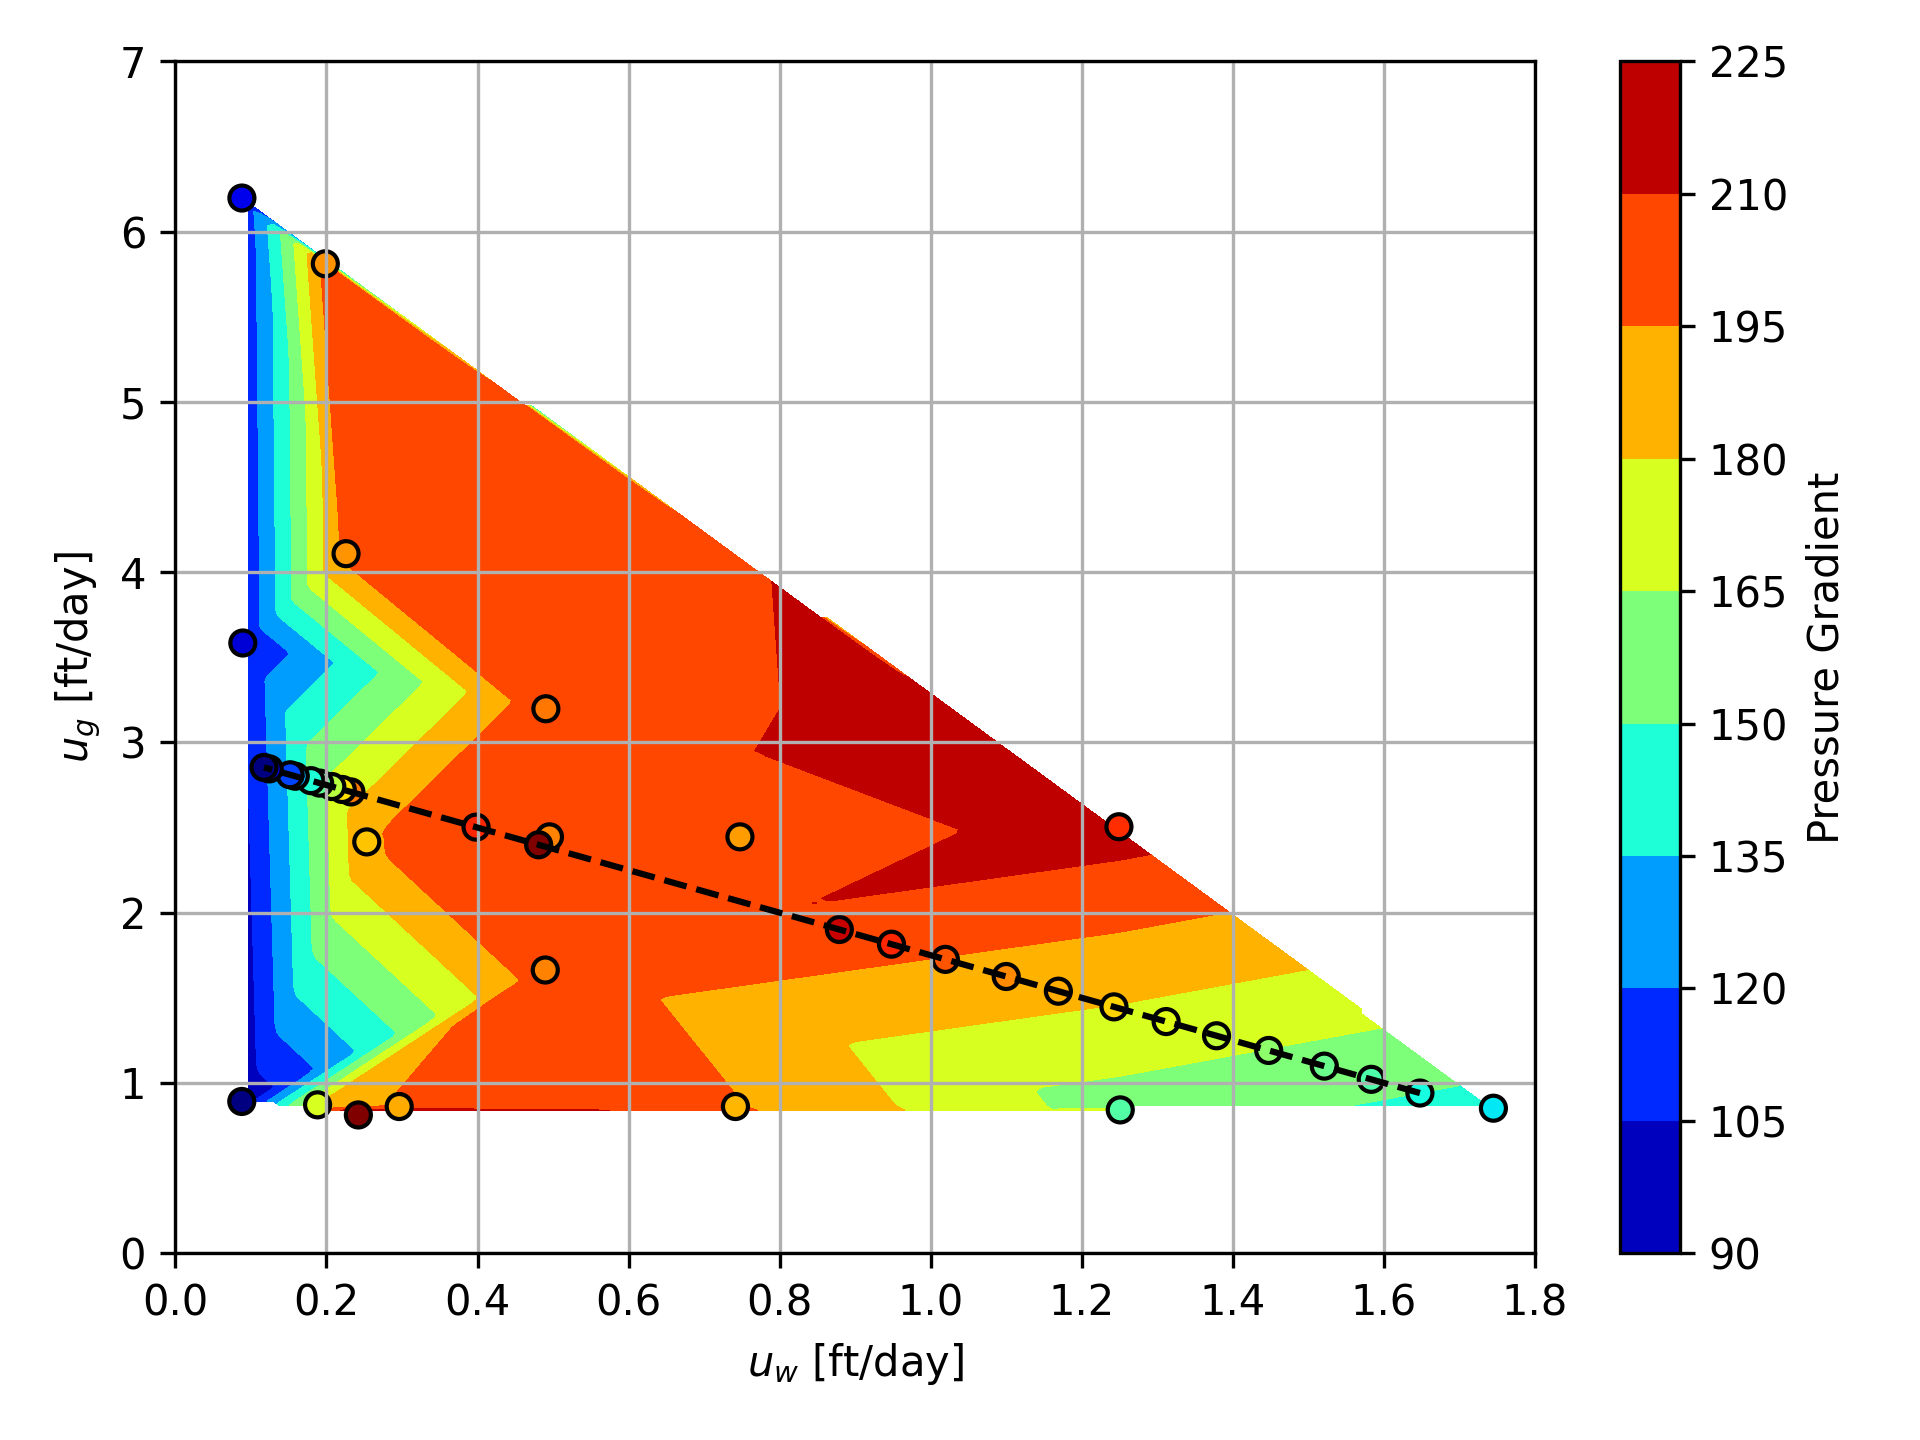
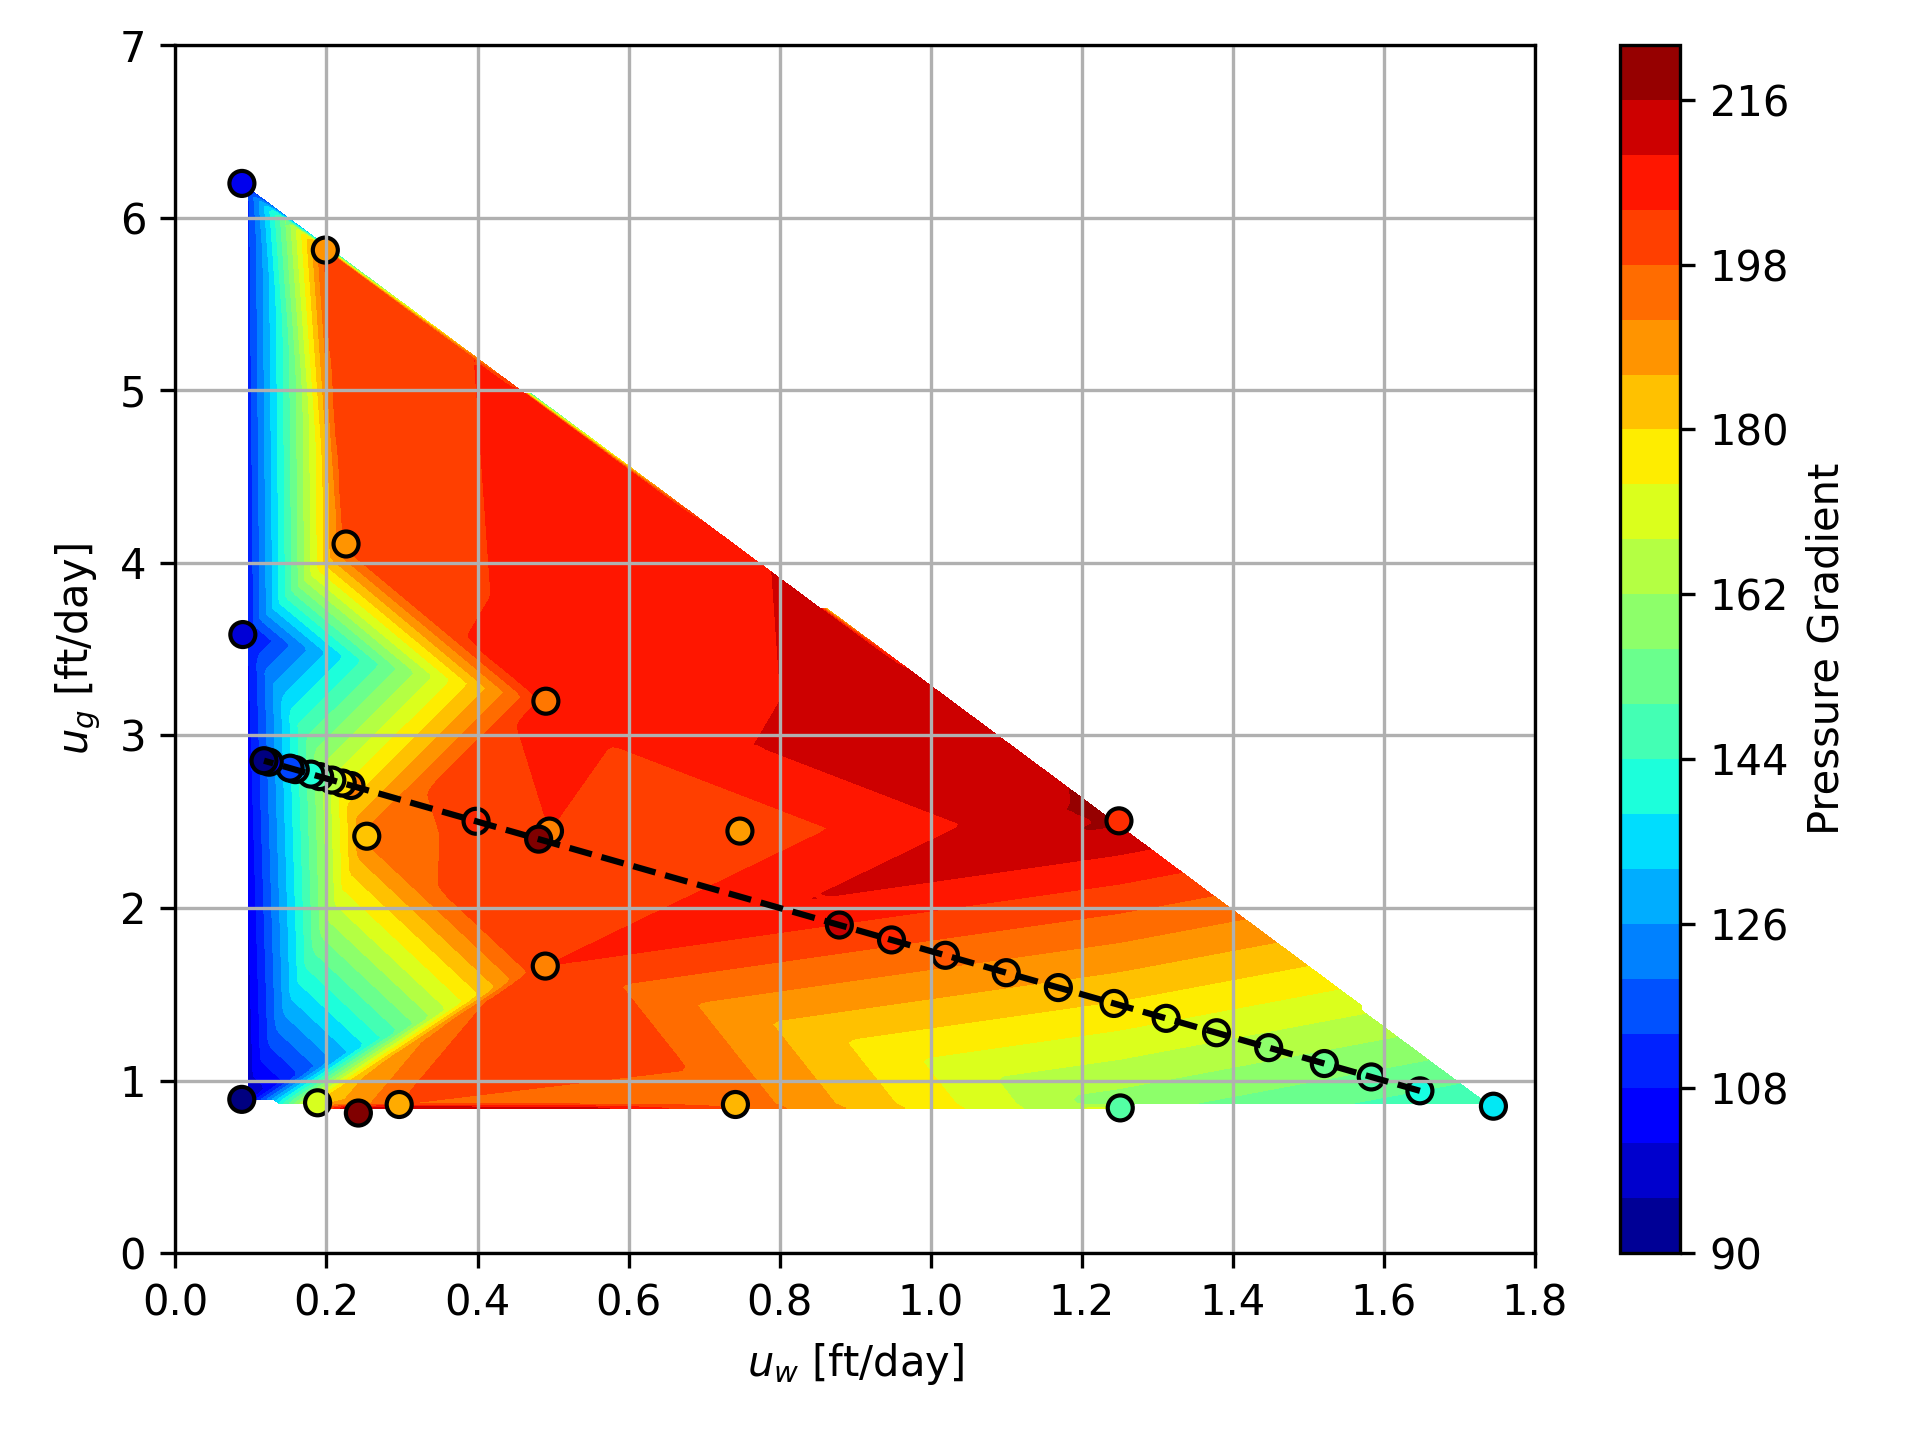
Enhancing the exploratory analysis

diff --git a/exploratory.py b/exploratory.py
@@ -3,6 +3,7 @@ import matplotlib.pyplot as plt
 import json
 from scipy.interpolate import griddata
 from scipy.optimize import minimize_scalar
+from scipy.interpolate import RegularGridInterpolator
 
 class RelativePermeability:
 
@@ -159,14 +160,13 @@ if __name__ == '__main__':
     plt.savefig('uwug_gradP.png', dpi=300)
     plt.close()
 
-
     ## GRIDDATA
     uw_grid = np.linspace(min(uwug[:,0]), max(uwug[:,0]), 200)
     ug_grid = np.linspace(min(uwug[:,1]), max(uwug[:,1]), 200)
     uw_mesh, ug_mesh = np.meshgrid(uw_grid, ug_grid)
     grid_points = np.column_stack((uwug[:,0], uwug[:,1]))
     grad_P_grid = griddata(grid_points, uwug[:,2], (uw_mesh, ug_mesh), method='linear')
-    contourf = plt.contourf(uw_mesh, ug_mesh, grad_P_grid, levels=10, cmap='jet')
+    contourf = plt.contourf(uw_mesh, ug_mesh, grad_P_grid, levels=20, cmap='jet')
     plt.scatter(uwug[:,0], uwug[:,1], c=uwug[:,2], cmap='jet', edgecolor='k')
     scatter = plt.scatter(uw*283465, ug*283465, c=np.abs(gradP)*4.419e-5, cmap='jet', edgecolor='k')
     plt.plot([uw[0]*283465, uw[-1]*283465], [ug[0]*283465, ug[-1]*283465], 'k--')
@@ -182,6 +182,106 @@ if __name__ == '__main__':
     plt.savefig('uwug_gradP_griddata.png', dpi=300)
     plt.close()
 
+
+
+    ## DESIRED UT
+    def interpolate_gradP(ut_des, uw_des):
+        ug_des = ut_des - (5/4) * uw_des
+        uo_des = (1/4) * uw_des
+        interp_func = RegularGridInterpolator((ug_grid, uw_grid), grad_P_grid)
+        points = np.column_stack((ug_des, uw_des))
+        grad_P_des = interp_func(points)
+        return ug_des, grad_P_des, uo_des
+    
+    ut_des = 3.0 # [ft/day]
+    uw_des = np.linspace(0.1,1.7,20)
+
+    # ut_des = 2.3 # [ft/day]
+    # uw_des = np.linspace(0.1,1.1,10)
+
+    # ut_des = 4.0 # [ft/day]
+    # uw_des = np.linspace(0.1,1.3,20)
+
+    ug_des, grad_P_des, uo_des = interpolate_gradP(ut_des, uw_des)
+    contourf = plt.contourf(uw_mesh, ug_mesh, grad_P_grid, levels=20, cmap='jet')
+    plt.scatter(uwug[:,0], uwug[:,1], c=uwug[:,2], cmap='jet', edgecolor='k')
+    scatter = plt.scatter(uw_des, ug_des, c=grad_P_des, cmap='jet', edgecolor='k')
+    plt.plot([uw_des[0], uw_des[-1]], [ug_des[0], ug_des[-1]], 'k--')
+    cbar = plt.colorbar(contourf)
+    cbar.set_label('Pressure Gradient')
+    plt.xlabel(r'$u_w$ [ft/day]')
+    plt.ylabel(r'$u_g$ [ft/day]')
+    plt.grid(True)
+    plt.tight_layout()
+    plt.xlim([0,1.8])
+    plt.ylim([0,7])
+    # plt.show()
+    plt.savefig('uwug_gradP_desired.png', dpi=300)
+    plt.close()
+
+    ## DIFFERENT UTs
+    ut_des_1 = 2.3 # [ft/day]
+    uw_des_1 = np.linspace(0.1,1.1,10)
+    ug_des_1, grad_P_des_1, uo_des_1 = interpolate_gradP(ut_des_1, uw_des_1)
+    fg_des_1 = ug_des_1 / (uw_des_1 + ug_des_1 + uo_des_1)
+
+    ut_des_2 = 3.0 # [ft/day]
+    uw_des_2 = np.linspace(0.1,1.7,20)
+    ug_des_2, grad_P_des_2, uo_des_2 = interpolate_gradP(ut_des_2, uw_des_2)
+    fg_des_2 = ug_des_2 / (uw_des_2 + ug_des_2 + uo_des_2)
+
+    ut_des_3 = 4.0 # [ft/day]
+    uw_des_3 = np.linspace(0.1,1.3,20)
+    ug_des_3, grad_P_des_3, uo_des_3 = interpolate_gradP(ut_des_3, uw_des_3)
+    fg_des_3 = ug_des_3 / (uw_des_3 + ug_des_3 + uo_des_3)
+
+    plt.plot(fg_des_1, grad_P_des_1, label=f'$u_t = {ut_des_1}$')
+    plt.plot(fg_des_2, grad_P_des_2, label=f'$u_t = {ut_des_2}$')
+    plt.plot(fg_des_3, grad_P_des_3, label=f'$u_t = {ut_des_3}$')
+    plt.xlabel(r'$f_g$ [-]', fontsize=14)
+    plt.ylabel(r'$\nabla p$ [psi/ft]', fontsize=14)
+    # plt.ylabel(r'$\nabla p$ [psi/ft]', fontsize=14)
+    plt.grid(True)
+    plt.legend()
+    # plt.show()
+    plt.savefig('differentUts.png', dpi=300)
+    plt.close()
+
+    contourf = plt.contourf(uw_mesh, ug_mesh, grad_P_grid, levels=20, cmap='jet')
+    plt.scatter(uwug[:,0], uwug[:,1], c=uwug[:,2], cmap='jet', edgecolor='k')
+    scatter = plt.scatter(uw_des_1, ug_des_1, c=grad_P_des_1, cmap='jet', edgecolor='k')
+    plt.plot([uw_des_1[0], uw_des_1[-1]], [ug_des_1[0], ug_des_1[-1]], 'k--')
+    scatter = plt.scatter(uw_des_2, ug_des_2, c=grad_P_des_2, cmap='jet', edgecolor='k')
+    plt.plot([uw_des_2[0], uw_des_2[-1]], [ug_des_2[0], ug_des_2[-1]], 'k--')
+    scatter = plt.scatter(uw_des_3, ug_des_3, c=grad_P_des_3, cmap='jet', edgecolor='k')
+    plt.plot([uw_des_3[0], uw_des_3[-1]], [ug_des_3[0], ug_des_3[-1]], 'k--')
+    cbar = plt.colorbar(contourf)
+    cbar.set_label('Pressure Gradient')
+    plt.xlabel(r'$u_w$ [ft/day]')
+    plt.ylabel(r'$u_g$ [ft/day]')
+    plt.grid(True)
+    plt.tight_layout()
+    plt.xlim([0,1.8])
+    plt.ylim([0,7])
+    # plt.show()
+    plt.savefig('three_uwug_gradP_desired.png', dpi=300)
+    plt.close()
+
+
+    ## COMPARED DESIRED VS TANG
+    fg_des = ug_des / (uw_des + ug_des + uo_des)
+    plt.plot(fg_des, grad_P_des, c='b', label='Interpolated from experimental')
+    plt.plot(fgMuapp[:,0], -gradP*4.419e-5,'ko', label='(Tang, J., 2018)') # convert from [Pa/m] to [psi/ft]
+    plt.xlabel(r'$f_g$ [-]', fontsize=14)
+    plt.ylabel(r'$\nabla p$ [psi/ft]', fontsize=14)
+    # plt.ylabel(r'$\nabla p$ [psi/ft]', fontsize=14)
+    plt.grid(True)
+    plt.legend()
+    # plt.show()
+    plt.savefig('comparison_desiredVStang.png', dpi=300)
+    plt.close()
+    
+    ## PLOT VELOCITIES FG
     plt.plot(fg,uw*283465,c='b',label=r'$u_w$')
     plt.plot(fg,ug*283465,c='g',label=r'$u_g$')
     plt.plot(fg,uo*283465,c='r',label=r'$u_o$')
